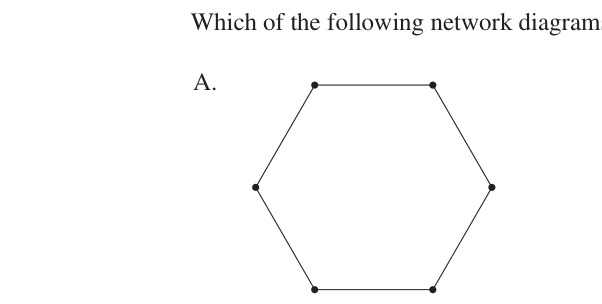
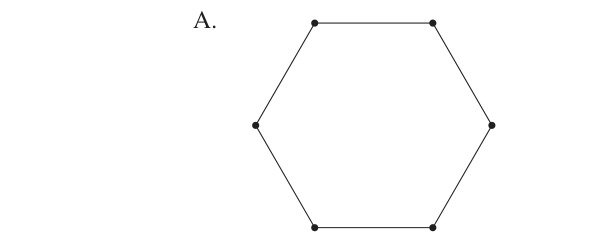
Image Scaling Updates
Fix 1 — Q9 crop: Moved A/B y_start from 278 → 340, cutting out the "Which of the following network diagram..." question text. Images re-cropped and verified clean.

✅ Fix 2 — Q8 question text: The q field previously said "John's z-scores: French 1.5, Commerce 3.0, Music 2.0..." which pre-solved the question. Now reads: "Relative to the rest of the class, which row of the table shows John's strongest subject and his weakest subject?" — matching the original NESA exam wording.

✅ Fix 3 — 2x2 grid: Questions with optionImages now render A/B on top row, C/D on bottom row. Image height reduced from clamp(150px,28vh,280px) to clamp(120px,22vh,220px) inside the grid (half-width columns don't need as much height). Collapses to 1-column on screens ≤ 380px.

diff --git a/index.html b/index.html
@@ -151,6 +151,12 @@
     /* object-fit:contain keeps aspect ratio at any screen size — never stretches */
     .option-img { display: block; width: 100%; height: clamp(150px, 28vh, 280px); object-fit: contain; object-position: center; border-radius: 6px; margin-bottom: 4px; cursor: zoom-in; }
     .option-img-desc { font-size: 11px; color: var(--muted); font-style: italic; }
+    /* 2×2 grid layout for questions where all 4 options are images (A|B on top, C|D below) */
+    .options-grid-2x2 { display: grid; grid-template-columns: 1fr 1fr; gap: 10px; }
+    /* In the grid, buttons are half-width — slightly shorter image height looks better */
+    .options-grid-2x2 .option-img { height: clamp(120px, 22vh, 220px); }
+    /* Collapse to single column on very narrow screens (≤380px) */
+    @media (max-width: 380px) { .options-grid-2x2 { grid-template-columns: 1fr; } }
 
     /* Phone — full width, no cap */
     .device-phone .q-image-wrap img { max-width: 100%; }
@@ -479,7 +485,7 @@ const mathsQuestions = [
 <div class="step"><span class="step-number">9.</span> Uniform flat.</div>
 <div class="step"><span class="step-number">10.</span> Correct: Tail on right.</div>`},
 
-    {year:2020,category:'S1S2',q:"John's z-scores: French 1.5, Commerce 3.0, Music 2.0. Which is his strongest subject relative to his class?",options:["French","Commerce","Music","All equal"],answer:1, image:"/diagrams/mathematics-standard-2_2020_Q8_stimulus.jpg",optionImages:["/diagrams/mathematics-standard-2_2020_Q8_A.jpg","/diagrams/mathematics-standard-2_2020_Q8_B.jpg","/diagrams/mathematics-standard-2_2020_Q8_C.jpg","/diagrams/mathematics-standard-2_2020_Q8_D.jpg"],solution:`<div class="step"><span class="step-number">1.</span> Z-score measures standard deviations from mean.</div>
+    {year:2020,category:'S1S2',q:"Relative to the rest of the class, which row of the table shows John's strongest subject and his weakest subject?",options:["French","Commerce","Music","All equal"],answer:1, image:"/diagrams/mathematics-standard-2_2020_Q8_stimulus.jpg",optionImages:["/diagrams/mathematics-standard-2_2020_Q8_A.jpg","/diagrams/mathematics-standard-2_2020_Q8_B.jpg","/diagrams/mathematics-standard-2_2020_Q8_C.jpg","/diagrams/mathematics-standard-2_2020_Q8_D.jpg"],solution:`<div class="step"><span class="step-number">1.</span> Z-score measures standard deviations from mean.</div>
 <div class="step"><span class="step-number">2.</span> Higher z-score = better performance relative to class mean.</div>
 <div class="step"><span class="step-number">3.</span> Positive z-score = above mean.</div>
 <div class="step"><span class="step-number">4.</span> Compare values: French 1.5, Music 2.0, Commerce 3.0.</div>
@@ -3337,7 +3343,9 @@ function renderQuestion() {
       html += `<div class="q-image-wrap"><img src="${imgUrl}" alt="Question diagram" loading="lazy" onclick="openLightbox(this.src)"/></div>`;
     }
     html += `<div class="q-text">${q.q || q.text || ''}</div>`;
-    html += '<div class="options-list">';
+    // Use 2x2 grid when all options are images — mirrors how NESA lays out option diagrams
+    const hasImgOpts = q.optionImages && q.optionImages.length >= 4 && q.optionImages.every(Boolean);
+    html += `<div class="options-list${hasImgOpts ? ' options-grid-2x2' : ''}">`;
     (q.options || []).forEach((opt, i) => {
       const correctIdx = q.answer !== undefined ? q.answer : q.correct;
       let cls = 'option-btn';
